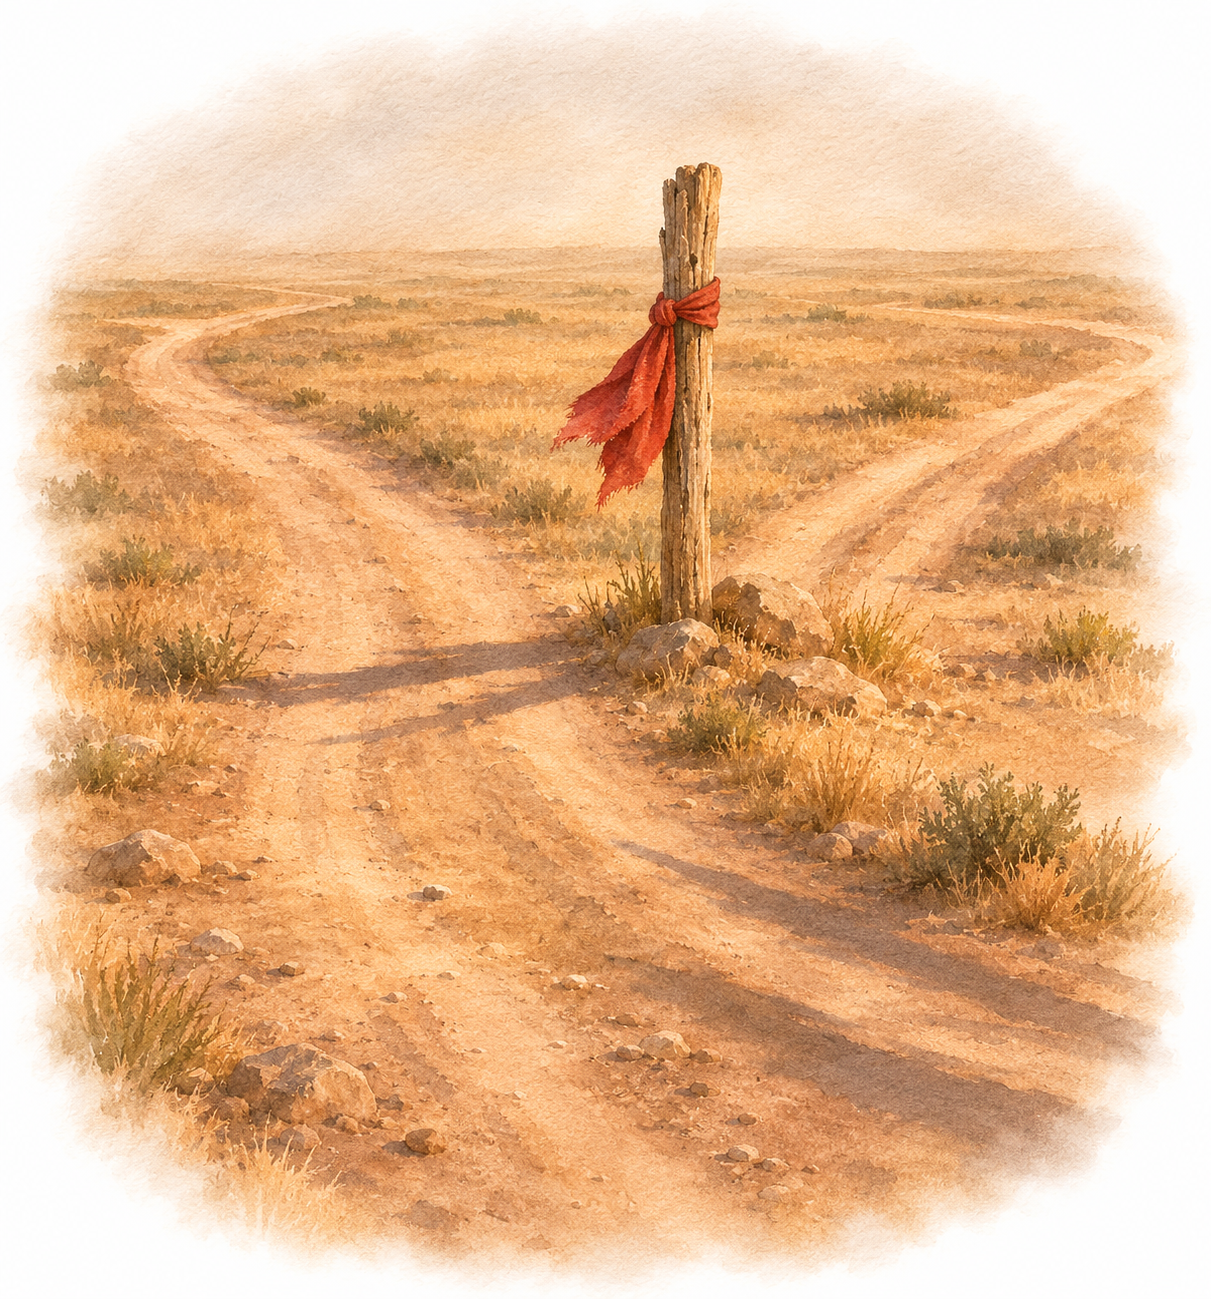
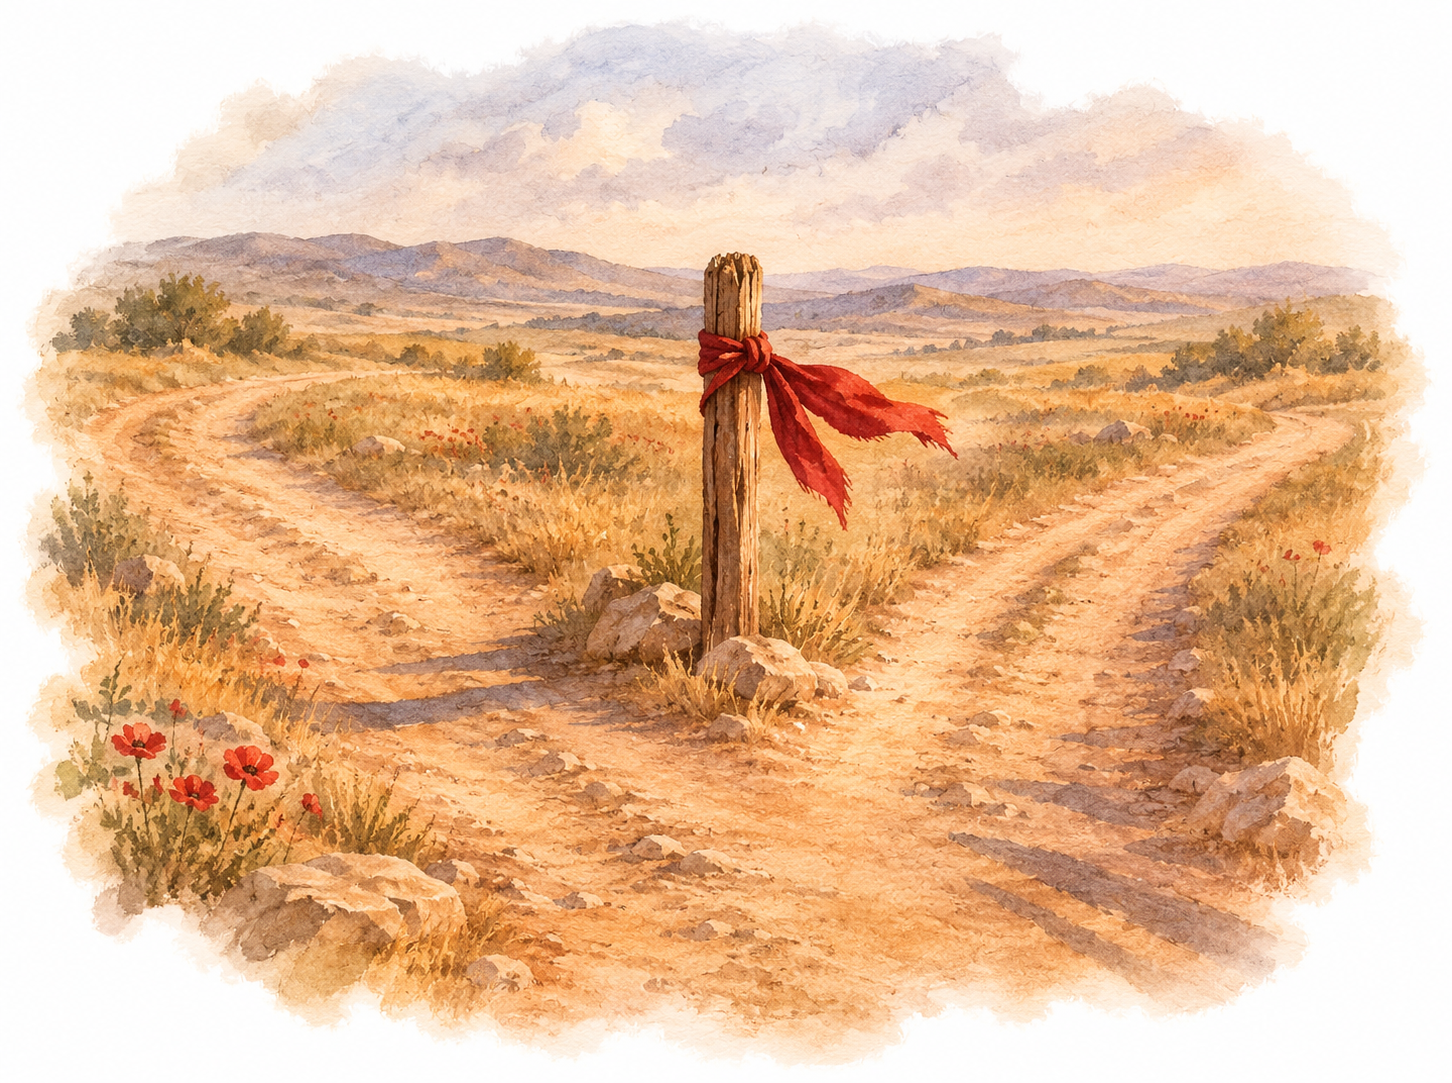
פרק 12 · תמונה בראש כל כרטיסיית זוג (שמונה כרטיסיות בתיקים 01, 02, 04)

diff --git a/web/src/styles/chapter12-article.css b/web/src/styles/chapter12-article.css
@@ -103,6 +103,7 @@
 .ch12-pair{display:grid;grid-template-columns:repeat(2,minmax(0,1fr));gap:clamp(18px,2.4vw,34px);max-width:940px;margin-inline:auto}
 .ch12-card{border-top:1px solid var(--gold-soft);padding:14px 2px 0}
 .ch12-card > * + *{margin-top:10px}
+.ch12-card-art{display:block;width:100%;height:auto;max-height:clamp(180px,17vw,250px);object-fit:contain;margin-bottom:4px}
 .chapter-article .ch12-card-m{display:block;text-align:center;font-family:var(--font-heading);font-weight:900;
   color:var(--gold-text);font-size:clamp(22px,1.9vw,28px);line-height:1.15;margin-bottom:8px}
 .chapter-article .ch12-card p{font-size:17px;line-height:1.75;margin:0}

diff --git a/web/src/components/Chapter12.tsx b/web/src/components/Chapter12.tsx
@@ -163,6 +163,8 @@ function Blocks({ blocks }: { blocks: Block[] }) {
             <div className="ch12-pair" data-reveal key={`pair-${i}`}>
               {b.pair.map((c) => (
                 <article className="ch12-card" key={c.refs[0]}>
+                  {/* eslint-disable-next-line @next/next/no-img-element */}
+                  {c.img && <img className="ch12-card-art" src={`${ART}${c.img}.webp`} alt="" loading="lazy" />}
                   <b className="ch12-card-m">{one(c.label)}</b>
                   {paras(c.refs).map((g) => <p key={g[0]}>{sentences(g)}</p>)}
                 </article>
